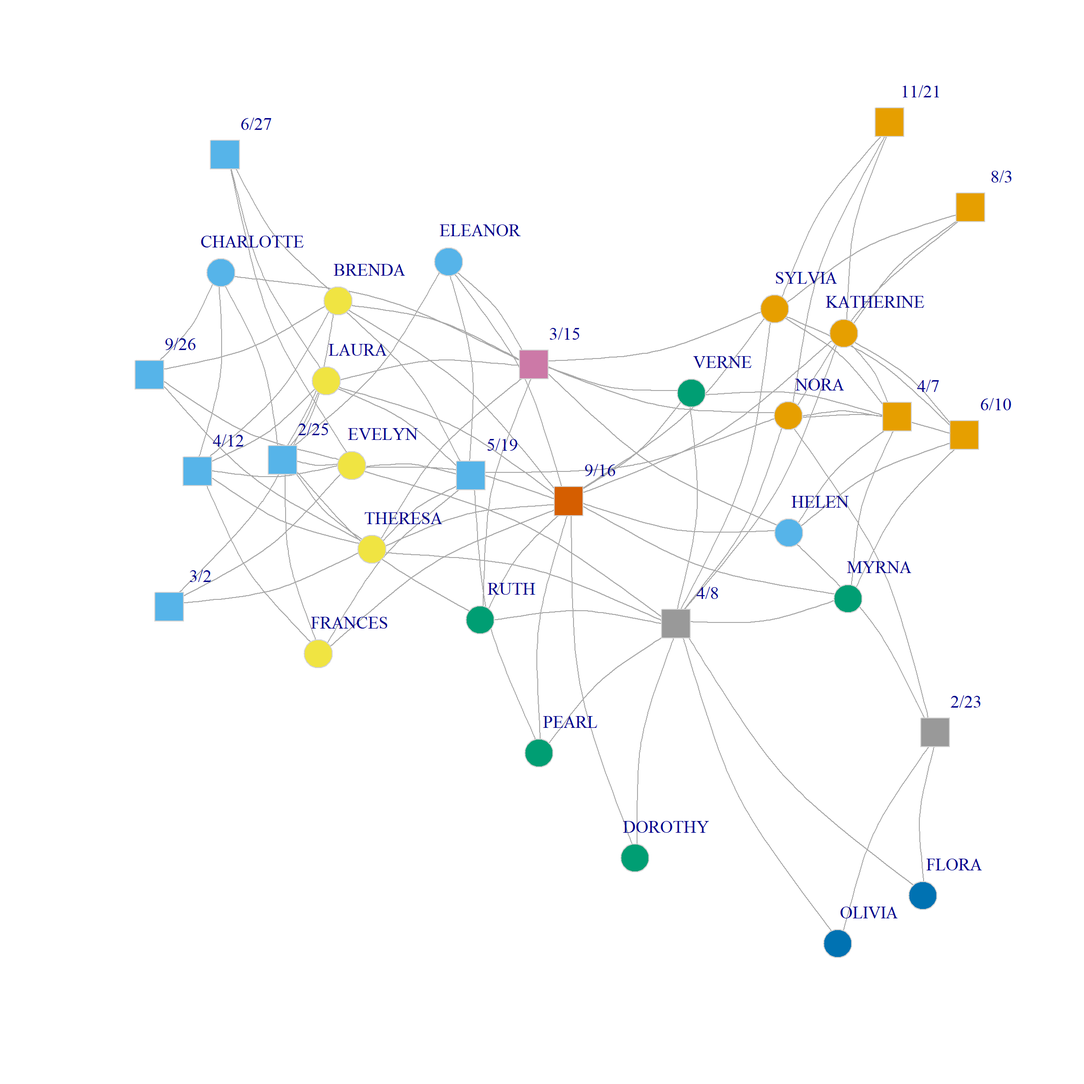
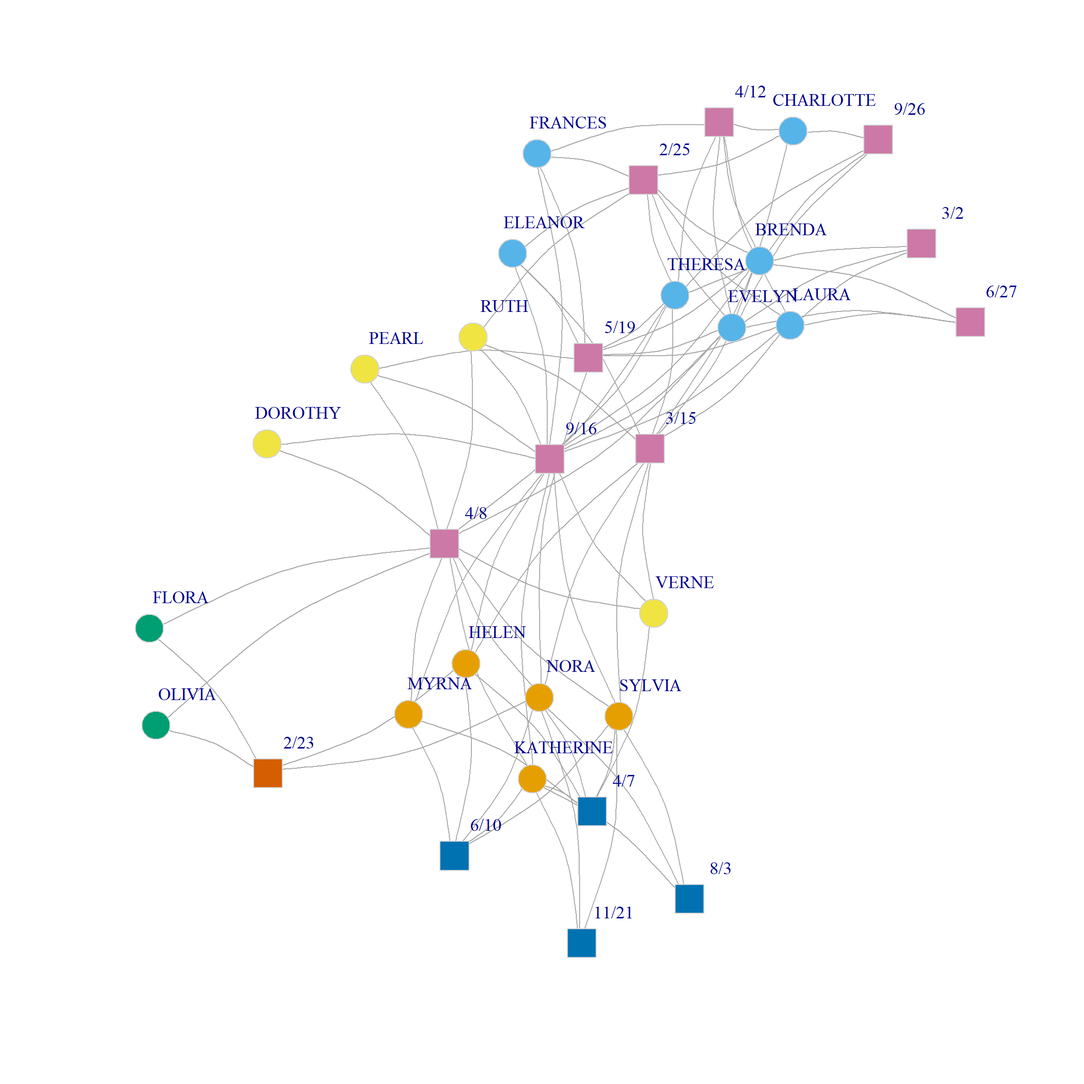
do it

diff --git a/docs/two-mode-communities.html b/docs/two-mode-communities.html
@@ -370,38 +370,30 @@ div.csl-indent {
 <div class="sourceCode cell-code" id="cb1"><pre class="sourceCode numberSource r number-lines code-with-copy"><code class="sourceCode r"><span id="cb1-1"><a href="#cb1-1"></a>   <span class="fu">library</span>(igraph)</span>
 <span id="cb1-2"><a href="#cb1-2"></a>   <span class="fu">library</span>(networkdata)</span>
 <span id="cb1-3"><a href="#cb1-3"></a>   g <span class="ot">&lt;-</span> southern_women <span class="co">#southern women data</span></span>
-<span id="cb1-4"><a href="#cb1-4"></a>   A <span class="ot">&lt;-</span> <span class="fu">as.matrix</span>(<span class="fu">as_biadjacency_matrix</span>(g)) <span class="co">#bi-adjacency matrix</span></span></code><button title="Copy to Clipboard" class="code-copy-button"><i class="bi"></i></button></pre></div>
+<span id="cb1-4"><a href="#cb1-4"></a>   A <span class="ot">&lt;-</span> <span class="fu">as.matrix</span>(<span class="fu">as_biadjacency_matrix</span>(g)) <span class="co">#bi-adjacency matrix</span></span>
+<span id="cb1-5"><a href="#cb1-5"></a>   B <span class="ot">&lt;-</span> <span class="fu">as.matrix</span>(<span class="fu">as_adjacency_matrix</span>(g)) <span class="co">#bipartite adjacency matrix</span></span></code><button title="Copy to Clipboard" class="code-copy-button"><i class="bi"></i></button></pre></div>
 </div>
 <section id="the-dual-projection-approach-to-bipartite-commmunity-detection" class="level2">
 <h2 class="anchored" data-anchor-id="the-dual-projection-approach-to-bipartite-commmunity-detection">The Dual Projection Approach to Bipartite Commmunity Detection</h2>
 <p>To estimate distinct number of communities across the separate modes we follow the dual projection approach of <span class="citation" data-cites="everett_borgatti13">Everett and Borgatti (<a href="#ref-everett_borgatti13" role="doc-biblioref">2013</a>)</span>.</p>
-<p>First, we need to create the matrices we will need, namely, the one-mode projections of people and groups and the modularity matrices based on those projections:</p>
+<p>We then perform the spectral decomposition of the bi-adjacency matrix, using Correspondence Analysis:</p>
 <div class="cell">
-<div class="sourceCode cell-code" id="cb2"><pre class="sourceCode numberSource r number-lines code-with-copy"><code class="sourceCode r"><span id="cb2-1"><a href="#cb2-1"></a>   P <span class="ot">&lt;-</span> A <span class="sc">%*%</span> <span class="fu">t</span>(A) <span class="co">#person projection</span></span>
-<span id="cb2-2"><a href="#cb2-2"></a>   G <span class="ot">&lt;-</span> <span class="fu">t</span>(A) <span class="sc">%*%</span> A <span class="co">#group projection</span></span>
-<span id="cb2-3"><a href="#cb2-3"></a>   d.p <span class="ot">&lt;-</span> <span class="fu">rowSums</span>(P) <span class="co">#people degree</span></span>
-<span id="cb2-4"><a href="#cb2-4"></a>   d.g <span class="ot">&lt;-</span> <span class="fu">rowSums</span>(G) <span class="co">#group degree</span></span>
-<span id="cb2-5"><a href="#cb2-5"></a>   B.p <span class="ot">&lt;-</span> P <span class="sc">-</span> (d.p <span class="sc">%*%</span> <span class="fu">t</span>(d.p))<span class="sc">/</span><span class="fu">sum</span>(P) <span class="co">#person modularity matrix</span></span>
-<span id="cb2-6"><a href="#cb2-6"></a>   B.g <span class="ot">&lt;-</span> G <span class="sc">-</span> (d.g <span class="sc">%*%</span> <span class="fu">t</span>(d.g))<span class="sc">/</span><span class="fu">sum</span>(G) <span class="co">#group modularity matrix</span></span></code><button title="Copy to Clipboard" class="code-copy-button"><i class="bi"></i></button></pre></div>
+<div class="sourceCode cell-code" id="cb2"><pre class="sourceCode numberSource r number-lines code-with-copy"><code class="sourceCode r"><span id="cb2-1"><a href="#cb2-1"></a>   <span class="fu">library</span>(FactoMineR)</span>
+<span id="cb2-2"><a href="#cb2-2"></a>   ca.res <span class="ot">&lt;-</span> <span class="fu">CA</span>(A, <span class="at">graph =</span> <span class="cn">FALSE</span>)</span></code><button title="Copy to Clipboard" class="code-copy-button"><i class="bi"></i></button></pre></div>
 </div>
-<p>We then perform the spectral decomposition of each single-mode modularity matrix, keeping the first three eigenvectors:</p>
+<p>We can now use our trusty <code>k.cuts</code> function from the spectral community detection handout to come up with a bunch of partitions of people and groups based on the first three eigenvectors of the spectral decomposition of the modularity matrix:</p>
 <div class="cell">
-<div class="sourceCode cell-code" id="cb3"><pre class="sourceCode numberSource r number-lines code-with-copy"><code class="sourceCode r"><span id="cb3-1"><a href="#cb3-1"></a>   eig.p <span class="ot">&lt;-</span> <span class="fu">eigen</span>(B.p)<span class="sc">$</span>vectors[, <span class="dv">1</span><span class="sc">:</span><span class="dv">4</span>]</span>
-<span id="cb3-2"><a href="#cb3-2"></a>   eig.g <span class="ot">&lt;-</span> <span class="fu">eigen</span>(B.g)<span class="sc">$</span>vectors[, <span class="dv">1</span><span class="sc">:</span><span class="dv">4</span>]</span></code><button title="Copy to Clipboard" class="code-copy-button"><i class="bi"></i></button></pre></div>
-</div>
-<p>We can now use our trusty <code>k.cuts</code> function from the spectral community detection handout to come up with a bunch of partitions of people and groups based on the first <span class="math inline">\(k\)</span> eigenvectors of the spectral decomposition of the modularity matrix:</p>
-<div class="cell">
-<div class="sourceCode cell-code" id="cb4"><pre class="sourceCode numberSource r number-lines code-with-copy"><code class="sourceCode r"><span id="cb4-1"><a href="#cb4-1"></a>   k.cuts <span class="ot">&lt;-</span> <span class="cf">function</span>(x, <span class="at">max =</span> <span class="dv">9</span>) {</span>
-<span id="cb4-2"><a href="#cb4-2"></a>      clus <span class="ot">&lt;-</span> <span class="fu">list</span>()</span>
-<span id="cb4-3"><a href="#cb4-3"></a>      <span class="cf">for</span> (i <span class="cf">in</span> <span class="dv">1</span><span class="sc">:</span>max) {</span>
-<span id="cb4-4"><a href="#cb4-4"></a>         <span class="fu">set.seed</span>(<span class="dv">456</span>) <span class="co">#setting seed because kmeans uses random starting nodes for cluster centroids</span></span>
-<span id="cb4-5"><a href="#cb4-5"></a>         k <span class="ot">&lt;-</span> i <span class="sc">+</span> <span class="dv">1</span></span>
-<span id="cb4-6"><a href="#cb4-6"></a>         clus[[i]] <span class="ot">&lt;-</span> <span class="fu">kmeans</span>(x, k)<span class="sc">$</span>cluster</span>
-<span id="cb4-7"><a href="#cb4-7"></a>         }</span>
-<span id="cb4-8"><a href="#cb4-8"></a>      <span class="fu">return</span>(clus)</span>
-<span id="cb4-9"><a href="#cb4-9"></a>   }</span>
-<span id="cb4-10"><a href="#cb4-10"></a>   k.cuts.p <span class="ot">&lt;-</span> <span class="fu">k.cuts</span>(eig.p, <span class="at">max =</span> <span class="dv">12</span>)</span>
-<span id="cb4-11"><a href="#cb4-11"></a>   k.cuts.g <span class="ot">&lt;-</span> <span class="fu">k.cuts</span>(eig.g, <span class="at">max =</span> <span class="dv">12</span>)</span></code><button title="Copy to Clipboard" class="code-copy-button"><i class="bi"></i></button></pre></div>
+<div class="sourceCode cell-code" id="cb3"><pre class="sourceCode numberSource r number-lines code-with-copy"><code class="sourceCode r"><span id="cb3-1"><a href="#cb3-1"></a>   k.cuts <span class="ot">&lt;-</span> <span class="cf">function</span>(x, <span class="at">max =</span> <span class="dv">9</span>) {</span>
+<span id="cb3-2"><a href="#cb3-2"></a>      clus <span class="ot">&lt;-</span> <span class="fu">list</span>()</span>
+<span id="cb3-3"><a href="#cb3-3"></a>      <span class="cf">for</span> (i <span class="cf">in</span> <span class="dv">1</span><span class="sc">:</span>max) {</span>
+<span id="cb3-4"><a href="#cb3-4"></a>         <span class="fu">set.seed</span>(<span class="dv">456</span>) <span class="co">#setting seed because kmeans uses random starting nodes for cluster centroids</span></span>
+<span id="cb3-5"><a href="#cb3-5"></a>         k <span class="ot">&lt;-</span> i <span class="sc">+</span> <span class="dv">1</span></span>
+<span id="cb3-6"><a href="#cb3-6"></a>         clus[[i]] <span class="ot">&lt;-</span> <span class="fu">kmeans</span>(x, k)<span class="sc">$</span>cluster</span>
+<span id="cb3-7"><a href="#cb3-7"></a>         }</span>
+<span id="cb3-8"><a href="#cb3-8"></a>      <span class="fu">return</span>(clus)</span>
+<span id="cb3-9"><a href="#cb3-9"></a>   }</span>
+<span id="cb3-10"><a href="#cb3-10"></a>   k.cuts.p <span class="ot">&lt;-</span> <span class="fu">k.cuts</span>(ca.res<span class="sc">$</span>row<span class="sc">$</span>coord[, <span class="dv">1</span><span class="sc">:</span><span class="dv">3</span>])</span>
+<span id="cb3-11"><a href="#cb3-11"></a>   k.cuts.g <span class="ot">&lt;-</span> <span class="fu">k.cuts</span>(ca.res<span class="sc">$</span>col<span class="sc">$</span>coord[, <span class="dv">1</span><span class="sc">:</span><span class="dv">3</span>])</span></code><button title="Copy to Clipboard" class="code-copy-button"><i class="bi"></i></button></pre></div>
 </div>
 </section>
 <section id="finding-the-bi-partition-with-the-best-modularity" class="level2">
@@ -409,101 +401,80 @@ div.csl-indent {
 <p>OK, now that we have some candidate communities for both the people and groups (stored in the <code>k.cuts.p</code> and <code>k.cuts.g</code> objects) we need to come up with a way of measuring the modularity for a candidate partition that puts the people into <span class="math inline">\(m\)</span> clusters and the groups into <span class="math inline">\(n\)</span> communities.</p>
 <p>As an example, let’s pick the solution that partitions people into four clusters and events into three communities:</p>
 <div class="cell">
-<div class="sourceCode cell-code" id="cb5"><pre class="sourceCode numberSource r number-lines code-with-copy"><code class="sourceCode r"><span id="cb5-1"><a href="#cb5-1"></a>   p<span class="fl">.4</span> <span class="ot">&lt;-</span> k.cuts.p[[<span class="dv">3</span>]]</span>
-<span id="cb5-2"><a href="#cb5-2"></a>   g<span class="fl">.3</span> <span class="ot">&lt;-</span> k.cuts.g[[<span class="dv">2</span>]]</span></code><button title="Copy to Clipboard" class="code-copy-button"><i class="bi"></i></button></pre></div>
+<div class="sourceCode cell-code" id="cb4"><pre class="sourceCode numberSource r number-lines code-with-copy"><code class="sourceCode r"><span id="cb4-1"><a href="#cb4-1"></a>   C <span class="ot">&lt;-</span> <span class="fu">c</span>(k.cuts.p[[<span class="dv">3</span>]], k.cuts.g[[<span class="dv">2</span>]])</span></code><button title="Copy to Clipboard" class="code-copy-button"><i class="bi"></i></button></pre></div>
 </div>
-<p>Given this information we can create a <span class="math inline">\(4 X 3\)</span> matrix counting the proportion of edges that go from person community <span class="math inline">\(i\)</span> to group community <span class="math inline">\(j\)</span>:</p>
+<p>Given this information we can create a reduced version of the bipartite adjacency matrix counting the proportion of edges that go from person community <span class="math inline">\(i\)</span> to group community <span class="math inline">\(j\)</span>:</p>
 <div class="cell">
-<div class="sourceCode cell-code" id="cb6"><pre class="sourceCode numberSource r number-lines code-with-copy"><code class="sourceCode r"><span id="cb6-1"><a href="#cb6-1"></a>   e <span class="ot">&lt;-</span> <span class="fu">matrix</span>(<span class="dv">0</span>, <span class="dv">4</span>, <span class="dv">3</span>)</span>
-<span id="cb6-2"><a href="#cb6-2"></a>   <span class="cf">for</span> (i <span class="cf">in</span> <span class="dv">1</span><span class="sc">:</span><span class="dv">4</span>) {</span>
-<span id="cb6-3"><a href="#cb6-3"></a>      <span class="cf">for</span> (j <span class="cf">in</span> <span class="dv">1</span><span class="sc">:</span><span class="dv">3</span>) {</span>
-<span id="cb6-4"><a href="#cb6-4"></a>         e[i, j] <span class="ot">=</span> <span class="fu">sum</span>(A[<span class="fu">which</span>(p<span class="fl">.4</span> <span class="sc">==</span> i), <span class="fu">which</span>(g<span class="fl">.3</span> <span class="sc">==</span> j)])</span>
-<span id="cb6-5"><a href="#cb6-5"></a>      }</span>
-<span id="cb6-6"><a href="#cb6-6"></a>   }</span>
-<span id="cb6-7"><a href="#cb6-7"></a>   e</span></code><button title="Copy to Clipboard" class="code-copy-button"><i class="bi"></i></button></pre></div>
+<div class="sourceCode cell-code" id="cb5"><pre class="sourceCode numberSource r number-lines code-with-copy"><code class="sourceCode r"><span id="cb5-1"><a href="#cb5-1"></a>   e <span class="ot">&lt;-</span> <span class="fu">matrix</span>(<span class="dv">0</span>, <span class="dv">4</span>, <span class="dv">4</span>)</span>
+<span id="cb5-2"><a href="#cb5-2"></a>   <span class="cf">for</span> (i <span class="cf">in</span> <span class="dv">1</span><span class="sc">:</span><span class="dv">4</span>) {</span>
+<span id="cb5-3"><a href="#cb5-3"></a>      <span class="cf">for</span> (j <span class="cf">in</span> <span class="dv">1</span><span class="sc">:</span><span class="dv">4</span>) {</span>
+<span id="cb5-4"><a href="#cb5-4"></a>         e[i, j] <span class="ot">=</span> <span class="fu">sum</span>(B[<span class="fu">which</span>(C <span class="sc">==</span> i), <span class="fu">which</span>(C <span class="sc">==</span> j)])</span>
+<span id="cb5-5"><a href="#cb5-5"></a>      }</span>
+<span id="cb5-6"><a href="#cb5-6"></a>   }</span>
+<span id="cb5-7"><a href="#cb5-7"></a>   e</span></code><button title="Copy to Clipboard" class="code-copy-button"><i class="bi"></i></button></pre></div>
 <div class="cell-output cell-output-stdout">
-<pre><code>     [,1] [,2] [,3]
-[1,]   13    4    0
-[2,]    6    9    6
-[3,]   10    1    1
-[4,]    4   10   25</code></pre>
+<pre><code>     [,1] [,2] [,3] [,4]
+[1,]   32    2   12    1
+[2,]    2    0   44    0
+[3,]   12   44    4   12
+[4,]    1    0   12    0</code></pre>
 </div>
 </div>
-<p><span class="citation" data-cites="suzuki_wakita09">Suzuki and Wakita (<a href="#ref-suzuki_wakita09" role="doc-biblioref">2009</a>)</span> based on work by <span class="citation" data-cites="murata09">Murata (<a href="#ref-murata09" role="doc-biblioref">2009</a>)</span> suggest using the <code>e</code> matrix above to compute the modularity according to the following formula:</p>
+<p><span class="citation" data-cites="suzuki_wakita09">Suzuki and Wakita (<a href="#ref-suzuki_wakita09" role="doc-biblioref">2009</a>)</span> based on work by <span class="citation" data-cites="murata09">Murata (<a href="#ref-murata09" role="doc-biblioref">2009</a>)</span> suggest using the <code>e</code> matrix above to compute the modularity of this person/group assignment according to the following formula:</p>
 <p><span class="math display">\[
-Q = \sum_{i, j} = \frac{e_{ij}}{p_i}\left[\frac{e_{ij}}{vol(A)} - \frac{p_ig_j}{(vol(A))^2}\right]
+Q = \sum_{i, j} = \frac{e_{ij}}{e_{i+}}\left(\frac{e_{ij}}{vol(B)} - \frac{e_{i+}e_{j+}}{vol(B)^2}\right)
 \]</span></p>
-<p>Where <span class="math inline">\(e_{ij}\)</span> is the fraction of edges connecting people in the <span class="math inline">\(i^{th}\)</span> person community to groups in the <span class="math inline">\(j^{th}\)</span> group community, <span class="math inline">\(p_i\)</span> is the fraction of edges originating in person community <span class="math inline">\(i\)</span>, <span class="math inline">\(g_j\)</span> is the fraction of edges originating in group community <span class="math inline">\(j\)</span>. For instance, <span class="math inline">\(e_{43} = 0.28\)</span> for person-community four and group-community three above. Similarly <span class="math inline">\(p_4\)</span> is 0.04 + 0.11 + 0.28 = 0.43 for person-community four and Similarly <span class="math inline">\(g_3\)</span> is 0 + 0.07 + 0 + 0.28 = 0.35 for group-community three; <span class="math inline">\(vol(A)\)</span> is the sum of the entries in the bi-adjacency matrix.</p>
-<p>Here’s a way of computing the Suzuki modularity using the information above:</p>
+<p>Where <span class="math inline">\(e_{ij}\)</span> is the fraction of edges connecting nodes (either people or groups) in the <span class="math inline">\(i^{th}\)</span> community to nodes in the <span class="math inline">\(j^{th}\)</span> community, <span class="math inline">\(e_{i+}\)</span> is the fraction of edges originating from nodes community <span class="math inline">\(i\)</span> (the corresponding row sum of <code>e</code>), <span class="math inline">\(e_{j+}\)</span> is the fraction of edges originating from nodes in community <span class="math inline">\(j\)</span> (the corresponding column sum of <code>e</code>), and <span class="math inline">\(vol(B)\)</span> is the sum of the entries in the bipartite adjacency matrix.</p>
+<p>So the idea is that given a partition of the person nodes into <code>m</code> communities and a partition of the group nodes into <code>n</code> communities, we can generate an <code>e</code> matrix like the one above and compute the corresponding modularity of that person/group partition using the above equation.</p>
+<p>Let’s see how this would work.</p>
+<p>To do this, first let’s package the steps we used to find calculate <code>e</code> from a partition and to find <span class="math inline">\(Q\)</span> from the Suzuki-Wakita modularity equation into a function:</p>
 <div class="cell">
-<div class="sourceCode cell-code" id="cb8"><pre class="sourceCode numberSource r number-lines code-with-copy"><code class="sourceCode r"><span id="cb8-1"><a href="#cb8-1"></a>   Q <span class="ot">&lt;-</span> <span class="dv">0</span></span>
-<span id="cb8-2"><a href="#cb8-2"></a>   a <span class="ot">&lt;-</span> <span class="fu">rowSums</span>(e)</span>
-<span id="cb8-3"><a href="#cb8-3"></a>   b <span class="ot">&lt;-</span> <span class="fu">colSums</span>(e)</span>
-<span id="cb8-4"><a href="#cb8-4"></a>   E <span class="ot">=</span> <span class="fu">sum</span>(A)</span>
-<span id="cb8-5"><a href="#cb8-5"></a>   <span class="cf">for</span> (i <span class="cf">in</span> <span class="dv">1</span><span class="sc">:</span><span class="dv">4</span>) {</span>
-<span id="cb8-6"><a href="#cb8-6"></a>      <span class="cf">for</span> (j <span class="cf">in</span> <span class="dv">1</span><span class="sc">:</span><span class="dv">3</span>) {</span>
-<span id="cb8-7"><a href="#cb8-7"></a>         Q <span class="ot">&lt;-</span> Q <span class="sc">+</span> ((e[i, j]<span class="sc">/</span>a[i]) <span class="sc">*</span> (e[i, j]<span class="sc">/</span>E <span class="sc">-</span> (a[i]<span class="sc">*</span>b[j])<span class="sc">/</span>E<span class="sc">^</span><span class="dv">2</span>))</span>
-<span id="cb8-8"><a href="#cb8-8"></a>         Q <span class="ot">&lt;-</span> Q <span class="sc">+</span> ((<span class="fu">t</span>(e)[j, i]<span class="sc">/</span>b[j]) <span class="sc">*</span> (<span class="fu">t</span>(e)[j, i]<span class="sc">/</span>E <span class="sc">-</span> (a[i]<span class="sc">*</span>b[j])<span class="sc">/</span>E<span class="sc">^</span><span class="dv">2</span>))</span>
-<span id="cb8-9"><a href="#cb8-9"></a>      }</span>
-<span id="cb8-10"><a href="#cb8-10"></a>   }</span>
-<span id="cb8-11"><a href="#cb8-11"></a>   Q<span class="sc">/</span><span class="dv">2</span></span></code><button title="Copy to Clipboard" class="code-copy-button"><i class="bi"></i></button></pre></div>
+<div class="sourceCode cell-code" id="cb7"><pre class="sourceCode numberSource r number-lines code-with-copy"><code class="sourceCode r"><span id="cb7-1"><a href="#cb7-1"></a>   find.mod <span class="ot">&lt;-</span> <span class="cf">function</span>(w, x) {</span>
+<span id="cb7-2"><a href="#cb7-2"></a>      a <span class="ot">&lt;-</span> <span class="fu">max</span>(w)</span>
+<span id="cb7-3"><a href="#cb7-3"></a>      b <span class="ot">&lt;-</span> <span class="fu">matrix</span>(<span class="dv">0</span>, a, a)</span>
+<span id="cb7-4"><a href="#cb7-4"></a>      <span class="cf">for</span> (i <span class="cf">in</span> <span class="dv">1</span><span class="sc">:</span>a) {</span>
+<span id="cb7-5"><a href="#cb7-5"></a>         <span class="cf">for</span> (j <span class="cf">in</span> <span class="dv">1</span><span class="sc">:</span>a) {</span>
+<span id="cb7-6"><a href="#cb7-6"></a>            b[i, j] <span class="ot">=</span> <span class="fu">sum</span>(x[<span class="fu">which</span>(w <span class="sc">==</span> i), <span class="fu">which</span>(w <span class="sc">==</span> j)])</span>
+<span id="cb7-7"><a href="#cb7-7"></a>         }</span>
+<span id="cb7-8"><a href="#cb7-8"></a>      }</span>
+<span id="cb7-9"><a href="#cb7-9"></a>      Q <span class="ot">&lt;-</span> <span class="dv">0</span></span>
+<span id="cb7-10"><a href="#cb7-10"></a>      E <span class="ot">=</span> <span class="fu">sum</span>(x)</span>
+<span id="cb7-11"><a href="#cb7-11"></a>      c <span class="ot">&lt;-</span> <span class="fu">rowSums</span>(b)</span>
+<span id="cb7-12"><a href="#cb7-12"></a>      <span class="cf">for</span> (i <span class="cf">in</span> <span class="dv">1</span><span class="sc">:</span>a) {</span>
+<span id="cb7-13"><a href="#cb7-13"></a>         <span class="cf">for</span> (j <span class="cf">in</span> <span class="dv">1</span><span class="sc">:</span>a) {</span>
+<span id="cb7-14"><a href="#cb7-14"></a>         Q <span class="ot">&lt;-</span> Q <span class="sc">+</span> ((b[i, j]<span class="sc">/</span>c[i]) <span class="sc">*</span> (b[i, j]<span class="sc">/</span>E <span class="sc">-</span> (c[i]<span class="sc">*</span>c[j])<span class="sc">/</span>E<span class="sc">^</span><span class="dv">2</span>))</span>
+<span id="cb7-15"><a href="#cb7-15"></a>         }</span>
+<span id="cb7-16"><a href="#cb7-16"></a>      }</span>
+<span id="cb7-17"><a href="#cb7-17"></a>   <span class="fu">return</span>(Q<span class="sc">/</span><span class="dv">2</span>)</span>
+<span id="cb7-18"><a href="#cb7-18"></a>   }</span></code><button title="Copy to Clipboard" class="code-copy-button"><i class="bi"></i></button></pre></div>
+</div>
+<p>Now, we can use the <code>find.mod</code> function to compute the modularity between <em>every pair</em> of partition combinations between people and groups that we calculated earlier; since we computed eight different partitions for people and groups this leads to <span class="math inline">\(8 \times 8 = 64\)</span> pairs.</p>
+<p>Here’s a wrapper function over <code>find.mod</code> that computes the corresponding modularity values for each pair:</p>
+<div class="cell">
+<div class="sourceCode cell-code" id="cb8"><pre class="sourceCode numberSource r number-lines code-with-copy"><code class="sourceCode r"><span id="cb8-1"><a href="#cb8-1"></a>   mod.mat <span class="ot">&lt;-</span> <span class="cf">function</span>(d) {</span>
+<span id="cb8-2"><a href="#cb8-2"></a>     w <span class="ot">&lt;-</span> <span class="fu">matrix</span>(<span class="dv">0</span>, d, d)</span>
+<span id="cb8-3"><a href="#cb8-3"></a>      <span class="cf">for</span> (i <span class="cf">in</span> <span class="dv">1</span><span class="sc">:</span>d) {</span>
+<span id="cb8-4"><a href="#cb8-4"></a>         <span class="cf">for</span> (j <span class="cf">in</span> <span class="dv">1</span><span class="sc">:</span>d) {</span>
+<span id="cb8-5"><a href="#cb8-5"></a>            w[i, j] <span class="ot">&lt;-</span> <span class="fu">find.mod</span>(<span class="fu">c</span>(k.cuts.p[[i]], k.cuts.g[[j]]), B)</span>
+<span id="cb8-6"><a href="#cb8-6"></a>         }</span>
+<span id="cb8-7"><a href="#cb8-7"></a>      }</span>
+<span id="cb8-8"><a href="#cb8-8"></a>    <span class="fu">return</span>(w)</span>
+<span id="cb8-9"><a href="#cb8-9"></a>   }</span>
+<span id="cb8-10"><a href="#cb8-10"></a>   Q <span class="ot">&lt;-</span> <span class="fu">round</span>(<span class="fu">mod.mat</span>(<span class="dv">8</span>), <span class="dv">3</span>)</span>
+<span id="cb8-11"><a href="#cb8-11"></a>   Q</span></code><button title="Copy to Clipboard" class="code-copy-button"><i class="bi"></i></button></pre></div>
 <div class="cell-output cell-output-stdout">
-<pre><code>[1] 0.1528609</code></pre>
+<pre><code>      [,1]  [,2]  [,3]  [,4]  [,5]  [,6]  [,7]  [,8]
+[1,] 0.103 0.149 0.073 0.126 0.134 0.126 0.134 0.129
+[2,] 0.081 0.126 0.058 0.119 0.121 0.113 0.123 0.112
+[3,] 0.094 0.155 0.077 0.130 0.087 0.085 0.088 0.094
+[4,] 0.108 0.056 0.085 0.072 0.055 0.054 0.057 0.067
+[5,] 0.102 0.052 0.078 0.064 0.051 0.051 0.050 0.053
+[6,] 0.101 0.049 0.076 0.067 0.055 0.039 0.040 0.046
+[7,] 0.128 0.052 0.089 0.074 0.063 0.047 0.045 0.049
+[8,] 0.123 0.053 0.085 0.067 0.059 0.045 0.043 0.045</code></pre>
 </div>
 </div>
-<p>Which seems like a positive number, indicating it is picking up modularity-based communities in these data. But is it the best partition?</p>
-<p>To answer this question, we need to search for all the candidate person and group partitions and select the pair of clusterings that maximizes the modularity as defined above.</p>
-<p>To do this, first let’s package the steps we used to find <span class="math inline">\(Q\)</span> from <code>e</code> into a function:</p>
-<div class="cell">
-<div class="sourceCode cell-code" id="cb10"><pre class="sourceCode numberSource r number-lines code-with-copy"><code class="sourceCode r"><span id="cb10-1"><a href="#cb10-1"></a>   find.mod <span class="ot">&lt;-</span> <span class="cf">function</span>(a, b, x) {</span>
-<span id="cb10-2"><a href="#cb10-2"></a>      c <span class="ot">&lt;-</span> <span class="fu">max</span>(a)</span>
-<span id="cb10-3"><a href="#cb10-3"></a>      d <span class="ot">&lt;-</span> <span class="fu">max</span>(b)</span>
-<span id="cb10-4"><a href="#cb10-4"></a>      e <span class="ot">&lt;-</span> <span class="fu">matrix</span>(<span class="dv">0</span>, c, d)</span>
-<span id="cb10-5"><a href="#cb10-5"></a>      <span class="cf">for</span> (i <span class="cf">in</span> <span class="dv">1</span><span class="sc">:</span>c) {</span>
-<span id="cb10-6"><a href="#cb10-6"></a>         <span class="cf">for</span> (j <span class="cf">in</span> <span class="dv">1</span><span class="sc">:</span>d) {</span>
-<span id="cb10-7"><a href="#cb10-7"></a>            e[i, j] <span class="ot">=</span> <span class="fu">sum</span>(x[<span class="fu">which</span>(a <span class="sc">==</span> i), <span class="fu">which</span>(b <span class="sc">==</span> j)])</span>
-<span id="cb10-8"><a href="#cb10-8"></a>         }</span>
-<span id="cb10-9"><a href="#cb10-9"></a>      }</span>
-<span id="cb10-10"><a href="#cb10-10"></a>      Q <span class="ot">&lt;-</span> <span class="dv">0</span></span>
-<span id="cb10-11"><a href="#cb10-11"></a>      f <span class="ot">&lt;-</span> <span class="fu">rowSums</span>(e)</span>
-<span id="cb10-12"><a href="#cb10-12"></a>      g <span class="ot">&lt;-</span> <span class="fu">colSums</span>(e)</span>
-<span id="cb10-13"><a href="#cb10-13"></a>      E <span class="ot">=</span> <span class="fu">sum</span>(x)</span>
-<span id="cb10-14"><a href="#cb10-14"></a>      <span class="cf">for</span> (i <span class="cf">in</span> <span class="dv">1</span><span class="sc">:</span><span class="fu">nrow</span>(e)) {</span>
-<span id="cb10-15"><a href="#cb10-15"></a>         <span class="cf">for</span> (j <span class="cf">in</span> <span class="dv">1</span><span class="sc">:</span><span class="fu">ncol</span>(e)) {</span>
-<span id="cb10-16"><a href="#cb10-16"></a>            Q <span class="ot">&lt;-</span> Q <span class="sc">+</span> ((e[i, j]<span class="sc">/</span>f[i]) <span class="sc">*</span> (e[i, j]<span class="sc">/</span>E <span class="sc">-</span> (f[i]<span class="sc">*</span>g[j])<span class="sc">/</span>E<span class="sc">^</span><span class="dv">2</span>))</span>
-<span id="cb10-17"><a href="#cb10-17"></a>            Q <span class="ot">&lt;-</span> Q <span class="sc">+</span> ((<span class="fu">t</span>(e)[j, i]<span class="sc">/</span>g[j]) <span class="sc">*</span> (<span class="fu">t</span>(e)[j, i]<span class="sc">/</span>E <span class="sc">-</span> (f[i]<span class="sc">*</span>g[j])<span class="sc">/</span>E<span class="sc">^</span><span class="dv">2</span>))</span>
-<span id="cb10-18"><a href="#cb10-18"></a>         }</span>
-<span id="cb10-19"><a href="#cb10-19"></a>      }</span>
-<span id="cb10-20"><a href="#cb10-20"></a>   <span class="fu">return</span>(Q<span class="sc">/</span><span class="dv">2</span>)</span>
-<span id="cb10-21"><a href="#cb10-21"></a>   }</span></code><button title="Copy to Clipboard" class="code-copy-button"><i class="bi"></i></button></pre></div>
-</div>
-<p>Now, we can use the <code>find.mod</code> function to compute the modularity between <em>every pair</em> of partition values between people and groups:</p>
-<div class="cell">
-<div class="sourceCode cell-code" id="cb11"><pre class="sourceCode numberSource r number-lines code-with-copy"><code class="sourceCode r"><span id="cb11-1"><a href="#cb11-1"></a>   mod.mat <span class="ot">&lt;-</span> <span class="fu">matrix</span>(<span class="dv">0</span>, <span class="dv">12</span>, <span class="dv">12</span>)</span>
-<span id="cb11-2"><a href="#cb11-2"></a>   <span class="cf">for</span> (i <span class="cf">in</span> <span class="dv">1</span><span class="sc">:</span><span class="dv">12</span>) {</span>
-<span id="cb11-3"><a href="#cb11-3"></a>      <span class="cf">for</span> (j <span class="cf">in</span> <span class="dv">1</span><span class="sc">:</span><span class="dv">12</span>) {</span>
-<span id="cb11-4"><a href="#cb11-4"></a>         mod.mat[i, j] <span class="ot">&lt;-</span> <span class="fu">find.mod</span>(k.cuts.p[[i]], k.cuts.g[[j]], A)</span>
-<span id="cb11-5"><a href="#cb11-5"></a>      }</span>
-<span id="cb11-6"><a href="#cb11-6"></a>   }</span>
-<span id="cb11-7"><a href="#cb11-7"></a>   Q <span class="ot">&lt;-</span> <span class="fu">round</span>(mod.mat, <span class="dv">3</span>)</span>
-<span id="cb11-8"><a href="#cb11-8"></a>   Q</span></code><button title="Copy to Clipboard" class="code-copy-button"><i class="bi"></i></button></pre></div>
-<div class="cell-output cell-output-stdout">
-<pre><code>       [,1]  [,2]  [,3]  [,4]  [,5]  [,6]  [,7]  [,8]  [,9] [,10] [,11] [,12]
- [1,] 0.001 0.011 0.041 0.028 0.027 0.027 0.027 0.027 0.037 0.037 0.037 0.037
- [2,] 0.078 0.105 0.115 0.130 0.120 0.116 0.112 0.108 0.109 0.110 0.110 0.106
- [3,] 0.108 0.153 0.142 0.154 0.145 0.139 0.136 0.125 0.131 0.128 0.127 0.124
- [4,] 0.100 0.167 0.170 0.179 0.175 0.164 0.161 0.149 0.149 0.146 0.147 0.144
- [5,] 0.097 0.161 0.157 0.173 0.162 0.152 0.148 0.137 0.135 0.132 0.131 0.127
- [6,] 0.088 0.163 0.157 0.171 0.164 0.152 0.149 0.136 0.132 0.130 0.130 0.127
- [7,] 0.087 0.154 0.150 0.162 0.156 0.144 0.141 0.131 0.127 0.124 0.123 0.120
- [8,] 0.096 0.157 0.154 0.165 0.158 0.145 0.141 0.132 0.131 0.128 0.127 0.123
- [9,] 0.096 0.160 0.157 0.167 0.160 0.146 0.142 0.133 0.132 0.129 0.128 0.124
-[10,] 0.089 0.144 0.139 0.150 0.142 0.129 0.125 0.116 0.115 0.114 0.114 0.110
-[11,] 0.089 0.148 0.142 0.153 0.145 0.130 0.126 0.117 0.116 0.115 0.115 0.111
-[12,] 0.088 0.143 0.138 0.148 0.140 0.126 0.122 0.113 0.113 0.111 0.113 0.109</code></pre>
-</div>
-</div>
-<p>Interestingly, the analysis suggests that the maximum modularity <span class="math inline">\(Q = 0.13\)</span> is obtained with a equi-partition of people and groups into five communities each corresponding to cell <span class="math inline">\((4, 4)\)</span> of the matrix above.</p>
+<p>Interestingly, the analysis suggests that the maximum modularity <span class="math inline">\(Q = 0.155\)</span> is obtained with a partition of people into four communities and groups into three communities corresponding to cells <span class="math inline">\((3, 2)\)</span> of the above matrix.</p>
 <p>Here’s what this community assignment looks like in the Southern Women data:</p>
 <div class="cell">
 <div class="cell-output-display">
@@ -515,8 +486,8 @@ Q = \sum_{i, j} = \frac{e_{ij}}{p_i}\left[\frac{e_{ij}}{vol(A)} - \frac{p_ig_j}{
 </div>
 </div>
 </div>
-<p>The analysis separates two groups of densely connected actors, namely, <span class="math inline">\(\{Brenda, Theresa, Laura, Frances, Evelyn\}\)</span> and <span class="math inline">\(\{Katherine, Nora, Sylvia\}\)</span> along with their corresponding events from the one another. Among the core group of densely connected actors <span class="math inline">\(\{Charlotte, Eleanor, Helen\}\)</span> form their own sub-community; while <span class="math inline">\(\{Pearl, Dorothy, Myrna, Verne\}\)</span> form a clique of more peripheral actors; <span class="math inline">\(\{Flora, Olivia\}\)</span> are a two-actor clique.</p>
-<p>Note that two very well-attended events <span class="math inline">\(\{9/16\}\)</span> and <span class="math inline">\(\{3/15\}\)</span> occupy unique structural positions as singleton clusters mainly because the mediate between the otherwise separate cliques of women across the bipartite graph. The events in the two-event community comprising <span class="math inline">\(\{4/8, 2/23\}\)</span> also play a mediating role, but mainly between they connect the more peripheral actor set and the rest.</p>
+<p>The analysis separates two groups of densely connected actors of size six and five, respectively, namely, <span class="math inline">\(\{Brenda, Theresa, Laura, Frances, Evelyn, Eleanor\}\)</span> and <span class="math inline">\(\{Katherine, Nora, Sylvia, Myrna, Helen\}\)</span> along with their corresponding events from the one another. In the same way, <span class="math inline">\(\{Pearl, Dorothy, Ruth, Verne\}\)</span> form a community of more peripheral actors who selectively attend the more popular events; <span class="math inline">\(\{Flora, Olivia\}\)</span> are a two-actor community occupying the most peripheral position.</p>
+<p>Events are partitioned into two broad groups: One the one hand, we have those selectively selectively attended by the larger community of densely connected actors along with the most popular events; on the other hand, we have the events selectively attended by the smaller group of densely connected actors. Finally, we have a singleton peripheral event community composed of <span class="math inline">\(\{2/23\}\)</span> which is the event that <span class="math inline">\(\{Flora, Olivia\}\)</span> selectively attend.</p>
 
 
 
